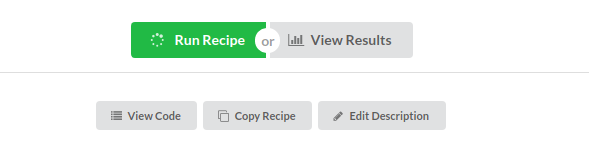
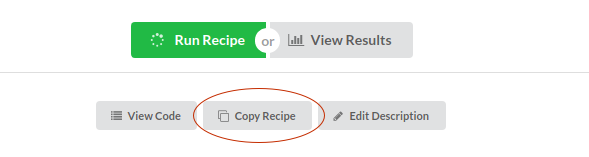
Update by ialbert on Tue Feb 20 11:24:21 EST 2018 from yolo.local

diff --git a/docs/how-to-use-the-site.md b/docs/how-to-use-the-site.md
@@ -1,16 +1,29 @@
-# How to use the site?
+# How to use the website?
 
-## Where to start ?
+The following questions enumerate the recommended practices when using the site.
 
-The first recommended step is to create a project where you will be given full access. To do this, click the ```Create Project``` button found at the top of your projects list. 
+### 1. Create your project
 
-![alt text](https://github.com/Natay/biostar-recipes/blob/master/docs/images/create_project.png "Create Project")
+Each project has permissions associated with them. This can be confusing at first.
 
-This will open a page allowing you to name your project, give it an image, etc. 
+You have full (read/write) access) to projects that you create. Start by creating your own project until you become more familiar with permissions.
 
-Clicking `Create` makes an empty project that you have `OWNER ACCESS` to. 
+To create a project, click the ```Create Project``` button found at the top of your projects list.
 
-Now that you have complete access to a project you can populate it with data, collaborators, and recipes. 
+![Create Project](images/create_project.png)
+
+This will open a page allowing you to name your project, optionally give it an image,  provide a description etc.
+
+Creating an new and empty project will give you full access to it.
+You may now populate your project with recipes, data and you may allow other users to access your project.
+
+### 2. Create recipes
+
+Start by copying existing recipes from other projects.
+
+Visit any **other** project accesible to you, select the `Recipes` tab then press the `Copy Recipe` from that project to your current project. The steps to achieve this are the following:
+
+ ![Copy Recipe](images/recipe_copy.png)
 
 
 ## 1. Add collaborators
